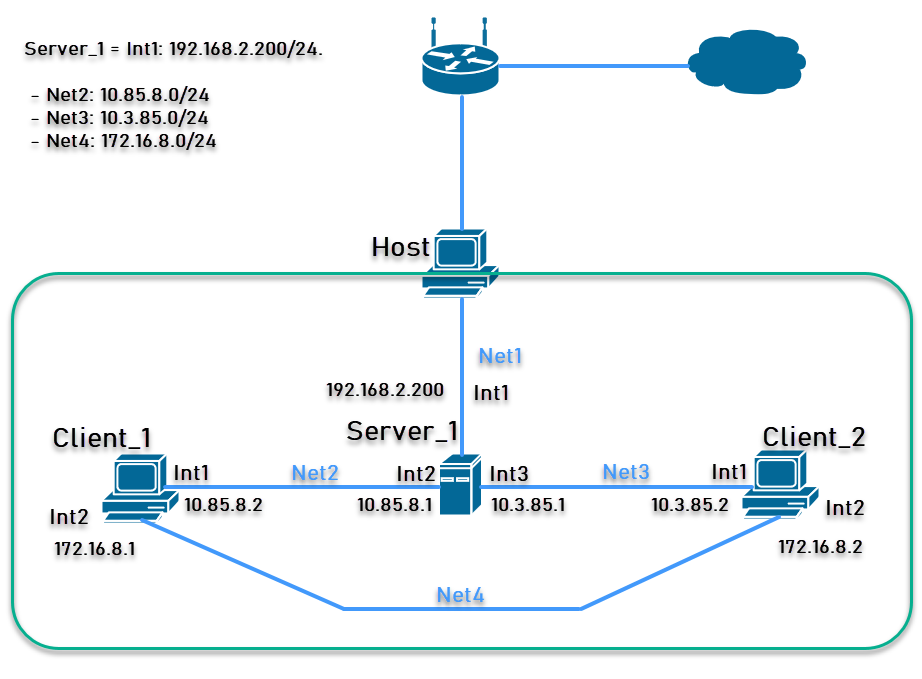
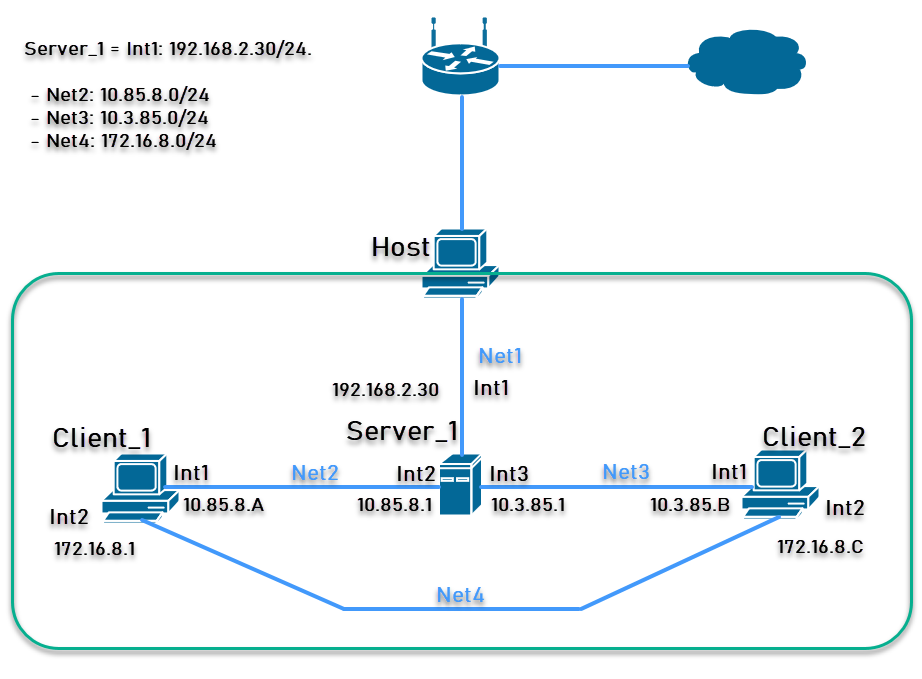
Update README.md

diff --git a/4. Linux Networking/README.md b/4. Linux Networking/README.md
@@ -35,7 +35,7 @@ __Увага!__ Для того, щоб з Client_1 та Client_2 проходи
 ***
 
 __Server_1__ 
-- Int1: 192.168.2.200/24. 
+- Int1: 192.168.2.30/24. 
 
 __Client_1 та Client_2__ \
 Адреса мережі Net2 – 10.Y.D.0/24, де Y(85) – дві останні цифри з вашого року народження, D(8) – дата народження. \
